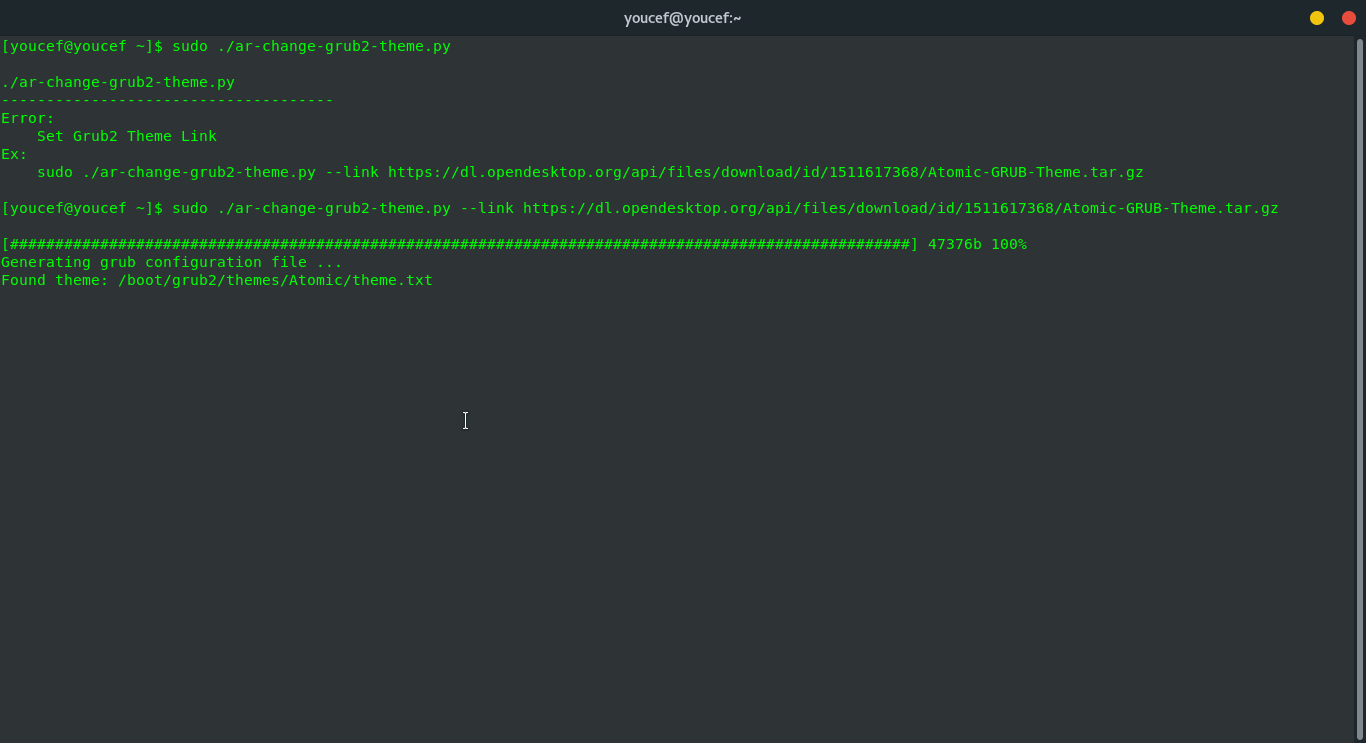
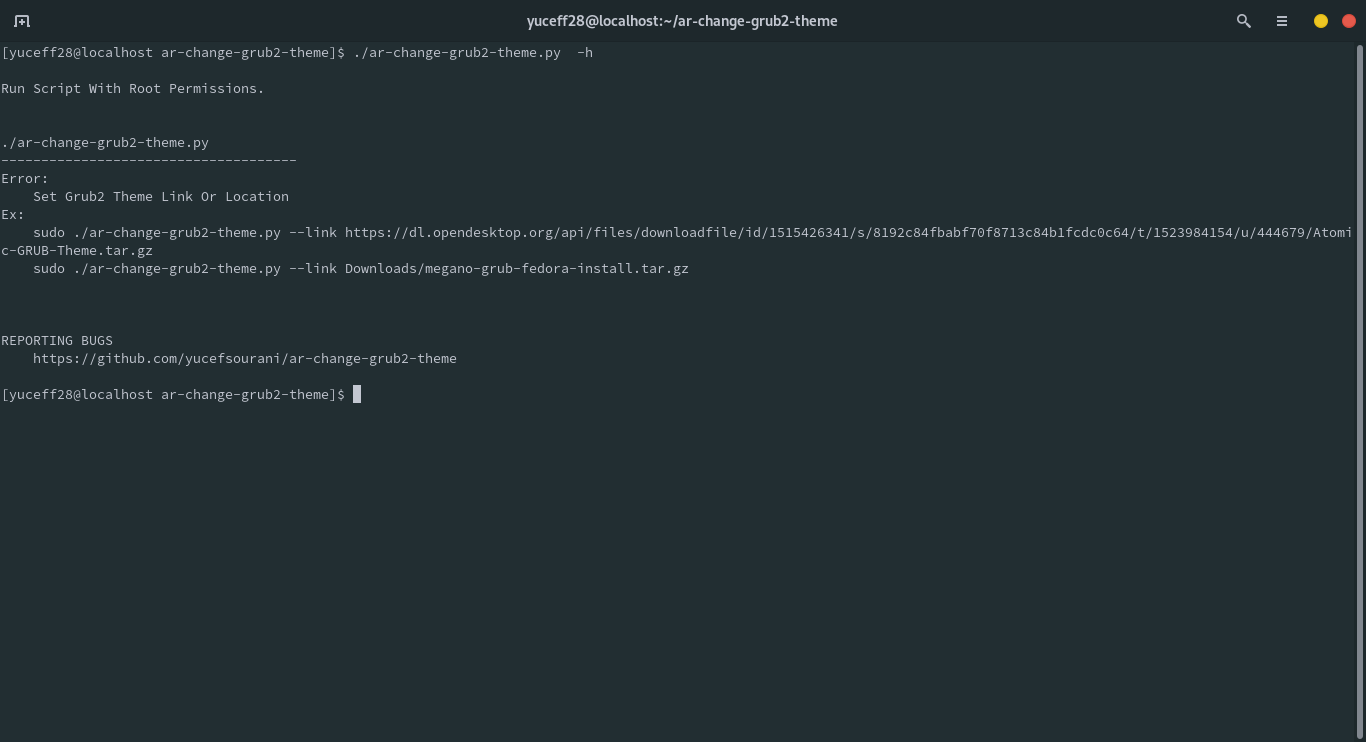
update

diff --git a/ar-change-grub2-theme.py b/ar-change-grub2-theme.py
@@ -31,20 +31,22 @@ import tarfile
 import zipfile
 import shutil
 import sys
+import tempfile
 
 help_ = """
 {}
 -------------------------------------
 Error:
-    Set Grub2 Theme Link
+    Set Grub2 Theme Link Or Location
 Ex:
     sudo {} --link https://dl.opendesktop.org/api/files/downloadfile/id/1515426341/s/8192c84fbabf70f8713c84b1fcdc0c64/t/1523984154/u/444679/Atomic-GRUB-Theme.tar.gz
+    sudo {} --link Downloads/megano-grub-fedora-install.tar.gz
     
 
 
 REPORTING BUGS
     https://github.com/yucefsourani/ar-change-grub2-theme
-""".format(__file__,__file__,__file__)
+""".format(__file__,__file__,__file__,__file__)
 
 class Grub():
     def downlaod_theme(self,link,location="/tmp",agent="Mozilla/5.0"):
@@ -55,7 +57,8 @@ class Grub():
         saveas   = os.path.join(location,name)
         try:
             session = requests.session()
-            opurl = session.get(link,headers=agent,stream=True)
+            opurl = session.get(link,headers=agent,stream=True,allow_redirects=True)
+            opurl.raise_for_status()
             size = int(opurl.headers["Content-Length"])
             psize = 0
             print ("["+"-"*100+"]"+" "+str(size)+"b"+" "+"0%",end="\r",flush=True)
@@ -69,6 +72,12 @@ class Grub():
             
             print (" "*200,end="\r",flush=True)
             print ("["+"#"*100+"]"+" "+str(size)+"b"+" "+"100%")
+        except requests.exceptions.MissingSchema:
+            if  subprocess.call("cp {} {}".format(link,location),shell=True)!=0:
+                return False
+            if not os.path.isfile(saveas):
+                return False
+            return saveas
         except:
             return False
         return saveas
@@ -160,7 +169,7 @@ class Grub():
 
 def main(link,system_theme_location,grub_mkconfig,legacy_boot_menu,efi_boot_menu):
     grub=Grub()
-    themefile = grub.downlaod_theme(link)
+    themefile = grub.downlaod_theme(link,location=tempfile.gettempdir())
     if themefile:
         themefolder = grub.unpack_theme_file(themefile)
         if themefolder:
